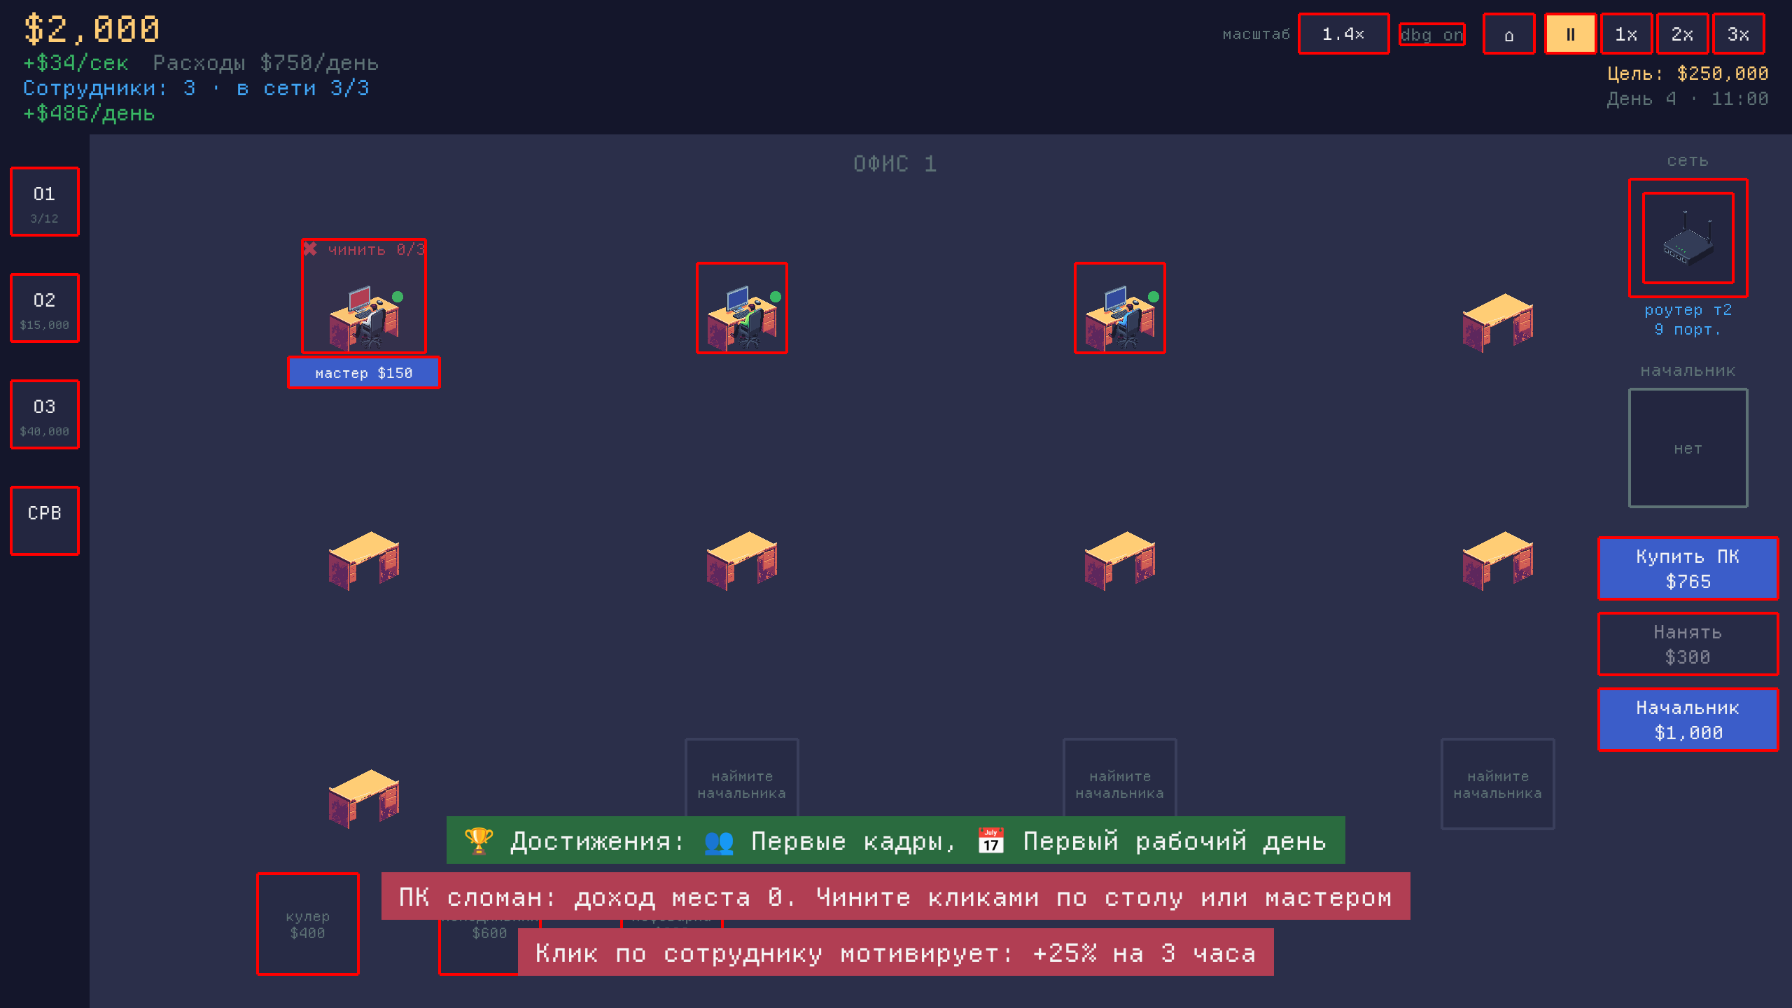
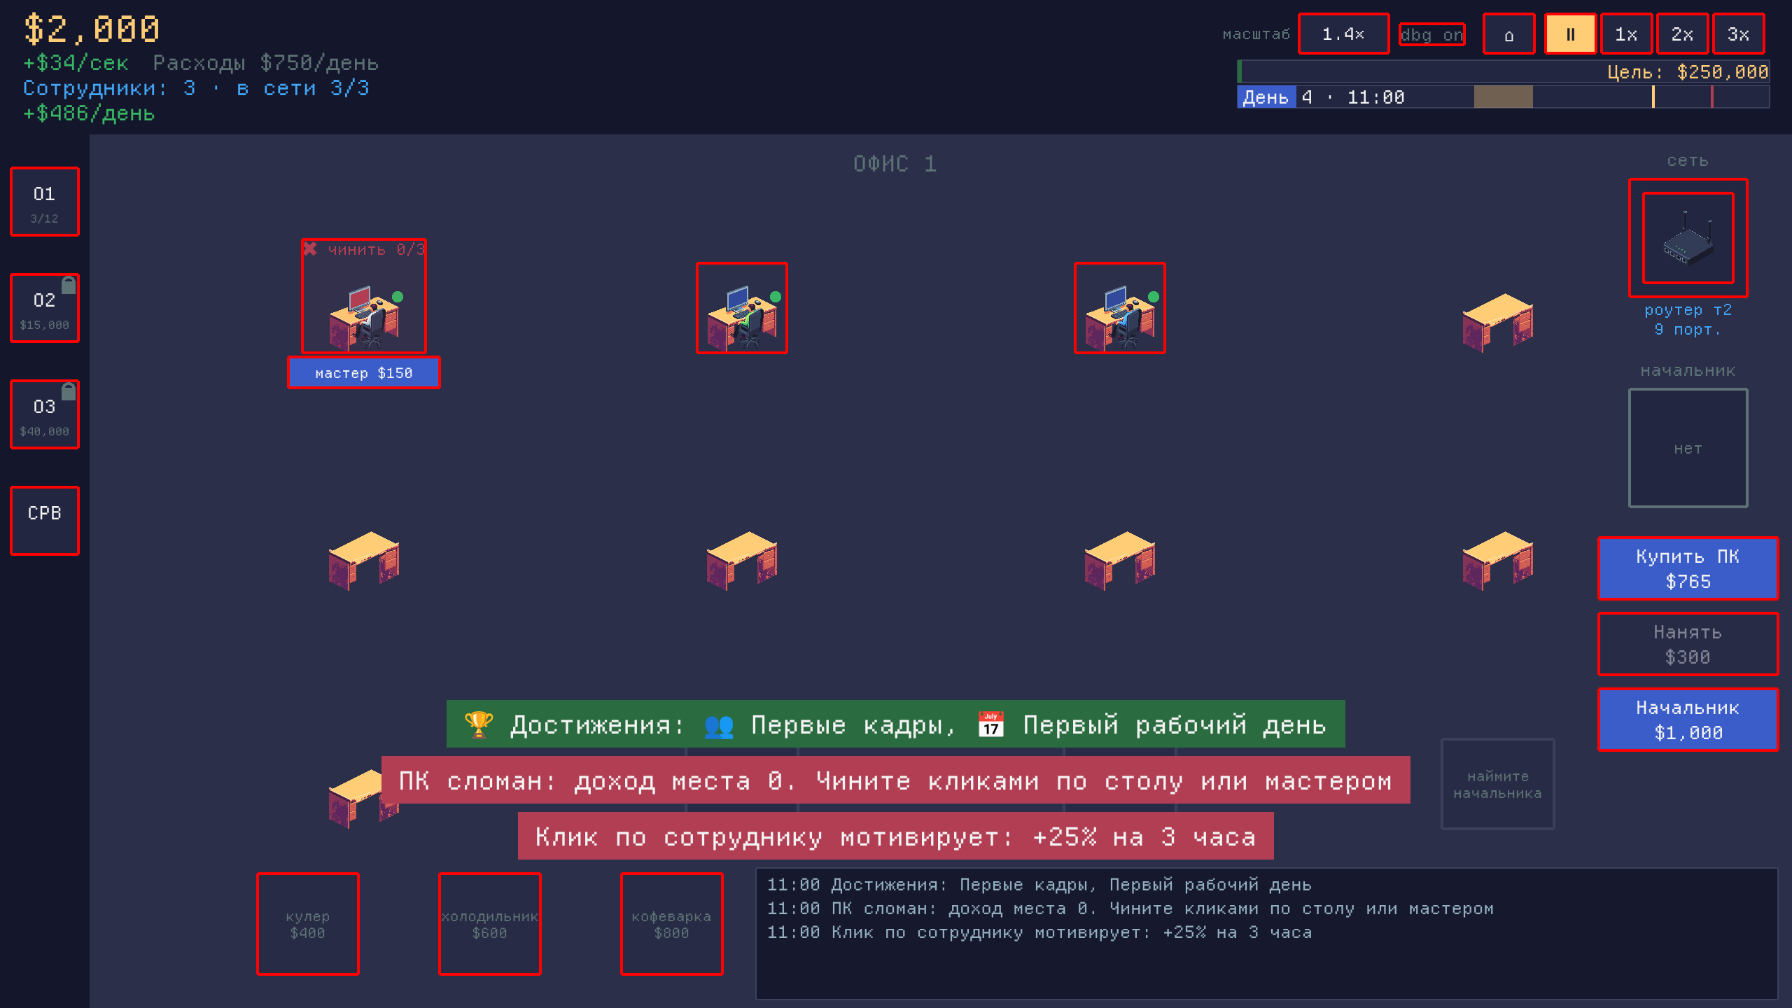
test(visreg): baselines for the HUD polish — ITGAME-21: goal/day bars, tab locks, the coach on fresh/soft_lock/pre_victory, the log strip; lint counts not worse

diff --git a/docs/development.md b/docs/development.md
@@ -998,8 +998,9 @@ Departure Mono 1.500 plus ITD Symbols, an 8-glyph OFL subset of Unifont for
 `FONT` in `client/src/render.ts`, `BootScene` waits for both before the
 menu). Emoji (achievement icons, 🏆📊🔒⚠) still come from the system emoji
 font. The committed baseline (9 scenarios, `broken_pc` included) was
-regenerated **2026-10-10** (last time for ITGAME-94: the office action
-column; lint counts unchanged) on the pinned Chrome for Testing 152.0.7977.54
+regenerated **2026-10-12** (last time for ITGAME-21: header bars, tab locks,
+the coach plate on fresh/soft_lock/pre_victory, the log strip; lint counts not
+worse, contrast down by one on some scenarios) on the pinned Chrome for Testing 152.0.7977.54
 (headless, SwiftShader software GL, Arch Linux, Noto Color Emoji); two
 consecutive runs without `--update` gave 0 differing pixels on every scenario.
 The layout-linter counts in `baseline.json` did not change with the font.
